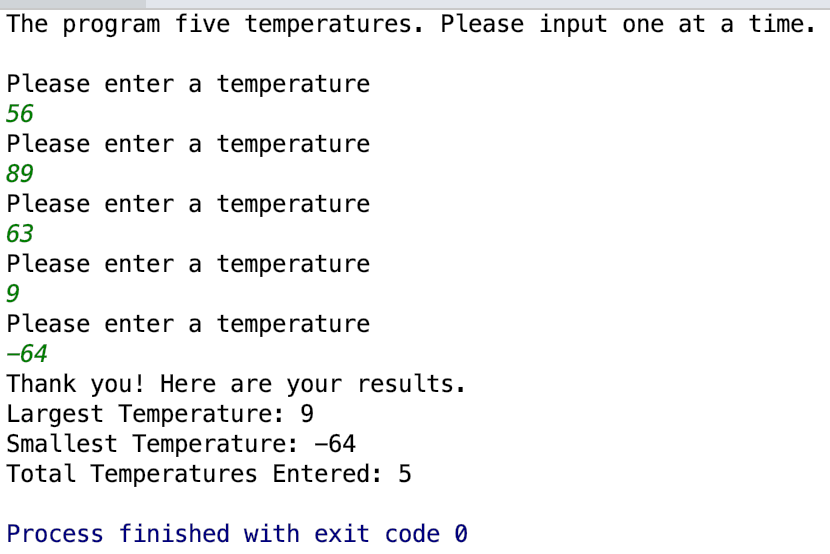
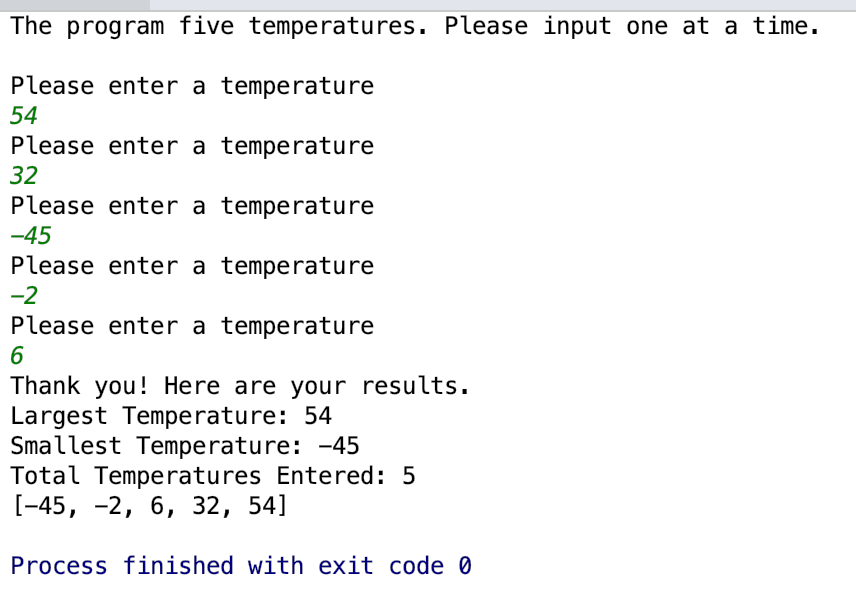
new

diff --git a/_portfolio/InputSorter.md b/_portfolio/InputSorter.md
@@ -39,7 +39,7 @@ If temperatures list has 5 values, the loop will end.
 
 ```python
 def addTemperature(d):
-    temperatures.append(d)
+    temperatures.append(int(d))
     for t in temperatures:
         if len(temperatures) == 5:
             break
@@ -80,9 +80,10 @@ temperatures.sort()
 OUTPUT TEXT
 ```python
 print("Thank you! Here are your results.")
-print("Largest Temperature: " + temperatures[-1]) #calls last index in sorted list
-print("Smallest Temperature: " + temperatures[0]) #calls first index in sorted list
+print("Largest Temperature: " + str(temperatures[-1])) #calls last index in sorted list
+print("Smallest Temperature: " + str(temperatures[0])) #calls first index in sorted list
 print("Total Temperatures Entered: " + counter) #uses the counter variable to output number of values
+print(temperatures)
 ```
 
 Here is an example of the program running from the user perspective:

diff --git a/_posts/2020-04-04-InputSorter.md b/_posts/2020-04-04-InputSorter.md
@@ -35,7 +35,7 @@ If temperatures list has 5 values, the loop will end.
 
 ```python
 def addTemperature(d):
-    temperatures.append(d)
+    temperatures.append(int(d))
     for t in temperatures:
         if len(temperatures) == 5:
             break
@@ -76,9 +76,10 @@ temperatures.sort()
 OUTPUT TEXT
 ```python
 print("Thank you! Here are your results.")
-print("Largest Temperature: " + temperatures[-1]) #calls last index in sorted list
-print("Smallest Temperature: " + temperatures[0]) #calls first index in sorted list
+print("Largest Temperature: " + str(temperatures[-1])) #calls last index in sorted list
+print("Smallest Temperature: " + str(temperatures[0])) #calls first index in sorted list
 print("Total Temperatures Entered: " + counter) #uses the counter variable to output number of values
+print(temperatures)
 ```
 
 Here is an example of the program running from the user perspective:
